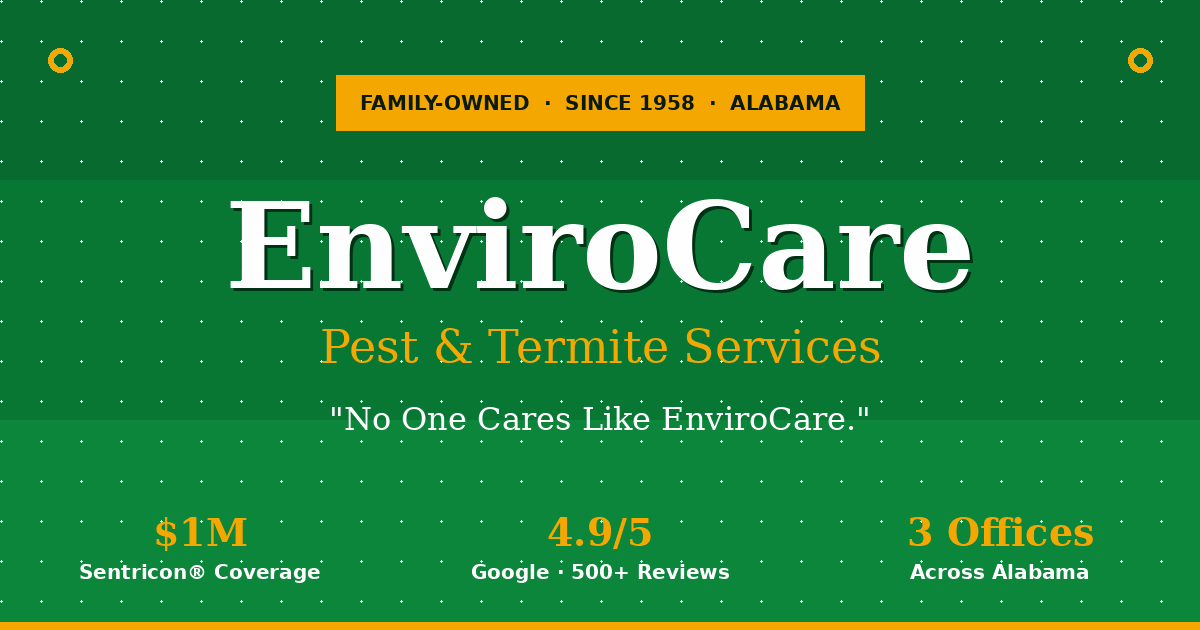
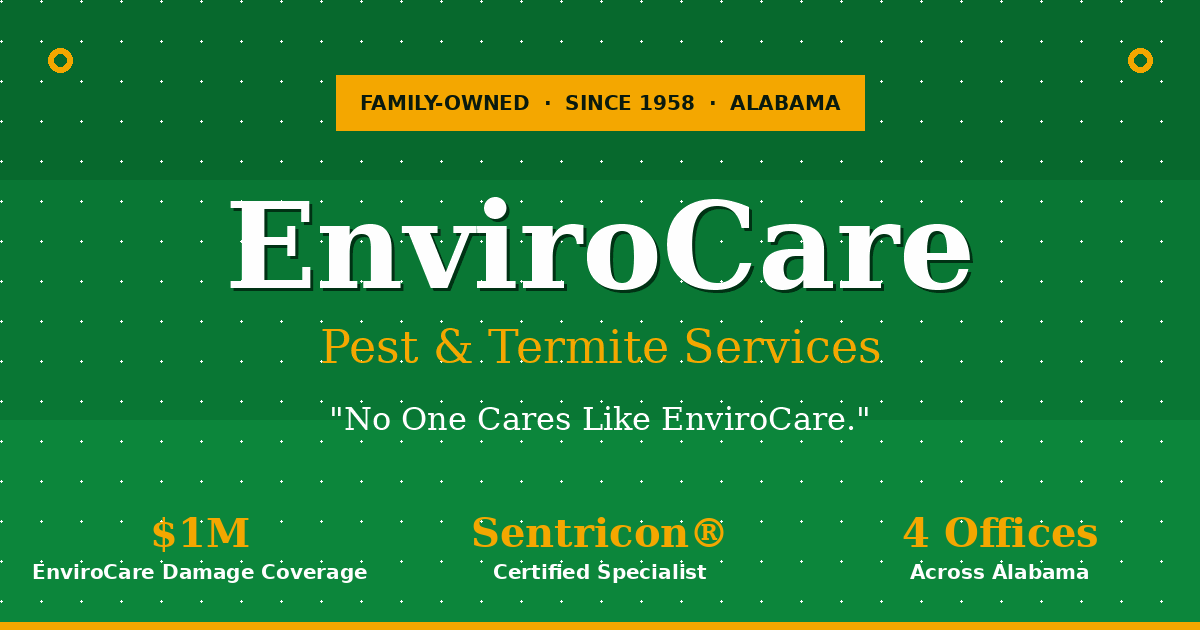
fix(images): remove AI truck from homepage + blog; fix og-image claims; keep per-post art
Review of #270 (blog editorial photos) found:

1. public/hero-family.webp and hero-family-mobile.webp are an AI-generated
   EnviroCare truck (Chevrolet grille on a different body, lowercase "Envirocare"),
   live as the HOMEPAGE hero with alt "Alabama family relaxing in their backyard".
   #270 also mapped 5 posts + the Pricing category to it. Deleted both files; the
   homepage and the blog now use the approved real photo hero-family.jpg with an
   honest alt. test:imagery said "clean": it only matched two exact names. It now
   fingerprints every image in public/ against known fakes (16x16 average hash) and
   was proven both ways (passes the 81 real images; flags the fake saved under a new
   name at 1 bit).
2. public/og-image.png (default share card, 123 refs in 62 files) read "$1M
   Sentricon® Coverage", "Google · 500+ Reviews", "3 Offices" -- three canon
   violations no text scanner can see. Stats row rebuilt in the same design:
   "$1M EnviroCare Damage Coverage · Sentricon® Certified Specialist · 4 Offices".
3. getBlogVisual() overrode the 6 posts with commissioned patch-0009 art and their
   1200x630 OG cards. A post's own heroImage now wins, in the page, OG and JSON-LD.

agents/knowledge/image-standard.md records both failures and the rules (open the
image; claims inside images are copy).

Verified on a production build: homepage hero = hero-family.jpg only, /hero-family.webp
404; /blog 65 cards, 1 featured, 0 emoji tiles; all 65 posts 200 with a hero image;
[…]

Changed region(s): [[0.37, 0.8143, 0.6167, 0.9349], [0.0308, 0.8143, 0.3083, 0.9349], [0.74, 0.8143, 0.925, 0.8746]]

diff --git a/data/blog-visuals.ts b/data/blog-visuals.ts
@@ -25,7 +25,7 @@ export type BlogVisual = {
 const VISUALS = {
   southernHome: { src: '/home-southern.jpg', alt: 'Landscaped residential house with a green lawn', position: 'center 50%', kind: 'editorial' },
   familyYard: { src: '/family-yard.jpg', alt: 'Green residential yard and outdoor living space', position: 'center 48%', kind: 'editorial' },
-  familyHome: { src: '/hero-family.webp', alt: 'Family enjoying the outdoor area of a house', position: 'center 42%', kind: 'editorial' },
+  familyHome: { src: '/hero-family.jpg', alt: 'Family playing with their dog in a sunny backyard', position: 'center 42%', kind: 'editorial' },
   lakeHome: { src: '/lake-home-hero.jpg', alt: 'Lakefront home and landscape near the water', position: 'center 55%', kind: 'editorial' },
   lakeDock: { src: '/lake-martin-sunset.webp', alt: 'Wooden dock extending into a tree-lined lake at sunset', position: 'center 60%', kind: 'editorial' },
   multiFamily: { src: '/commercial-multifamily.webp', alt: 'Multifamily residential property exterior', position: 'center 54%', kind: 'editorial' },
@@ -134,7 +134,15 @@ const FALLBACK_BY_CATEGORY: Record<string, VisualKey> = {
   'Fire Ants': 'ants',
 };
 
-export function getBlogVisual(post: { slug: string; category: string }): BlogVisual {
+export function getBlogVisual(post: {
+  slug: string;
+  category: string;
+  heroImage?: { src: string; alt: string };
+}): BlogVisual {
+  // A post with its own commissioned hero art (patch 0009, /images/blog/*) keeps
+  // it: that art was made for the article and has a matching 1200x630 OG card.
+  // The editorial map only fills in for posts that would otherwise show an emoji.
+  if (post.heroImage) return { src: post.heroImage.src, alt: post.heroImage.alt, kind: 'editorial' };
   const key = COVER_BY_SLUG[post.slug] ?? FALLBACK_BY_CATEGORY[post.category] ?? 'southernHome';
   return VISUALS[key];
 }

diff --git a/app/blog/[slug]/page.tsx b/app/blog/[slug]/page.tsx
@@ -45,7 +45,9 @@ export async function generateMetadata({
       // Per-post link-preview card. Without this every post fell back to the
       // site-wide /og-image.png (withOpenGraph default), so shared articles all
       // looked identical. Posts with no heroImage still get that default.
-      images: [{ url: editorialImage.src, alt: editorialImage.alt }],
+      images: post.heroImage
+        ? [{ url: post.heroImage.og, width: 1200, height: 630, alt: post.heroImage.alt }]
+        : [{ url: editorialImage.src, alt: editorialImage.alt }],
     },
   });
 }
@@ -73,7 +75,7 @@ export default async function Page({ params }: { params: Promise<{ slug: string 
             mainEntityOfPage: { '@type': 'WebPage', '@id': `${SITE}/blog/${post.slug}` },
             headline: post.title.slice(0, 110),
             description: post.metaDescription,
-            image: `${SITE}${getBlogVisual(post).src}`,
+            image: `${SITE}${post.heroImage ? post.heroImage.og : getBlogVisual(post).src}`,
             articleSection: post.category,
             wordCount: post.body.replace(/<[^>]+>/g, ' ').split(/\s+/).filter(Boolean).length,
             timeRequired: `PT${post.readMinutes}M`,

diff --git a/components/pages/Homepage.tsx b/components/pages/Homepage.tsx
@@ -338,10 +338,10 @@ function Hero() {
 
           <div className="ec-hero-photo-m">
             <Image
-              src="/hero-family-mobile.webp"
-              alt="Alabama family relaxing in their backyard"
-              width={900}
-              height={600}
+              src="/hero-family.jpg"
+              alt="Family playing with their dog in a sunny backyard"
+              width={1360}
+              height={765}
               sizes="(max-width: 960px) 92vw, 1px"
               priority
             />
@@ -361,8 +361,8 @@ function Hero() {
         <div className="ec-hero-visual">
           <div className="ec-hero-photo-wrap">
             <Image
-              src="/hero-family.webp"
-              alt="Alabama family relaxing in their backyard"
+              src="/hero-family.jpg"
+              alt="Family playing with their dog in a sunny backyard"
               fill
               priority
               fetchPriority="high"

diff --git a/agents/knowledge/image-standard.md b/agents/knowledge/image-standard.md
@@ -268,3 +268,27 @@ fetcher receiving `text/plain` reports "Invalid Image URL." So the Aug-7 failure
 
 **Before repeating this claim, run the curl above.** If it returns 200, the host is not
 the problem.
+
+## 2026-10-17 — two failures the text guards cannot see
+
+**1. An AI truck under an innocent filename.** `public/hero-family.webp` and
+`hero-family-mobile.webp` were the HOMEPAGE hero and contained an AI-generated
+EnviroCare truck (Chevrolet grille on a different body, lowercase "Envirocare"
+slogan), with alt text "Alabama family relaxing in their backyard". The name-based
+guard said "clean". Fixed: both files deleted, homepage now uses the approved real
+photo `hero-family.jpg`, and `test:imagery` now fingerprints every image in
+`public/` against known fakes (catches renames and re-encodes). **Rule: open the
+image. A filename or alt text is not evidence of what is in it.**
+
+**2. Claims baked into an image.** `public/og-image.png` — the share card for
+62 pages and the site-wide default — read "$1M Sentricon® Coverage" (attribution
+banned, canon §1), "Google · 500+ Reviews" (review counts banned) and "3 Offices"
+(there are four). No text scanner reads pixels. Fixed: stats row now reads
+"$1M EnviroCare Damage Coverage · Sentricon® Certified Specialist · 4 Offices".
+**Rule: every compliance rule applies to text inside images, OG cards and
+graphics. Read the image before publishing it.**
+
+### Blog covers (2026-10-17, PR #270)
+`data/blog-visuals.ts` maps every post to a vetted existing photo or pest-library
+image. A post's own commissioned `heroImage` (patch 0009 art) always wins, along
+with its 1200×630 OG card. Add a post's cover there; do not reintroduce emoji heroes.
